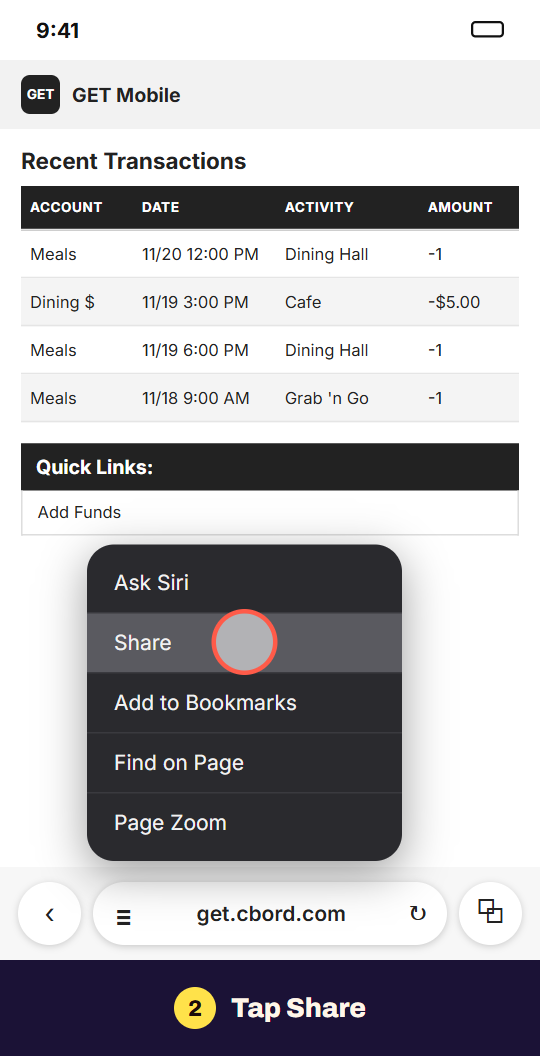
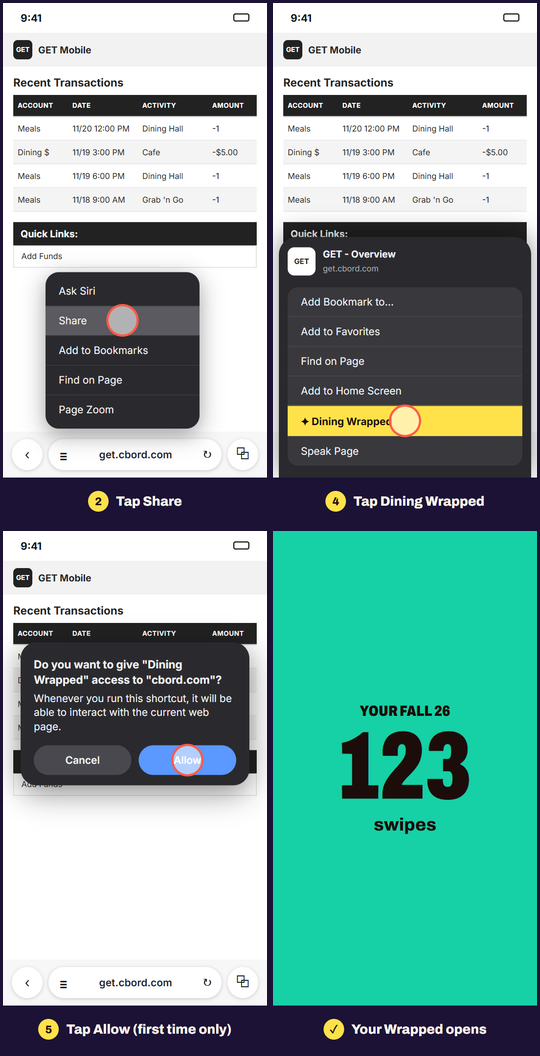
Fix review findings on the iPhone GIF
- Step 3 says the Shortcut is under View More on newer iPhones.
- The GIF sits in step 3, below the buttons, so phones reach Add to
  iPhone first.
- The reduced-motion still is a grid of all four key steps.

The step 3 test changed to include the View More hint.

diff --git a/templates/home.html b/templates/home.html
@@ -112,20 +112,20 @@
               <script>if (/iPhone/.test(navigator.userAgent)) document.documentElement.classList.add("is-iphone");</script>
               <div class="home-iphone">
                 <h2 class="heading2">On your iPhone</h2>
-                <figure class="home-iphone-demo">
-                  <picture>
-                    <source media="(prefers-reduced-motion: reduce)" srcset="{{ url_for('static', filename='styles/imgs/how-to-iphone-still.png') }}">
-                    <img src="{{ url_for('static', filename='styles/imgs/how-to-iphone.gif') }}" width="540" height="1056" loading="lazy"
-                         alt="How it works on iPhone: in Safari on GET, tap Share, then Dining Wrapped, then Allow, and your Wrapped opens.">
-                  </picture>
-                </figure>
                 <ol>
                   <li>Add the shortcut:
                     <a href="{{ shortcut_url }}" class="home-hero-button1 button home-iphone-button" target="_blank" rel="noopener">Add to iPhone</a>
                   </li>
                   <li>Allow it to run: Settings &rsaquo; Apps &rsaquo; Shortcuts &rsaquo; Advanced &rsaquo; <b>Allow Running Scripts</b>. (On older iPhones: Settings &rsaquo; Shortcuts &rsaquo; Advanced.)</li>
-                  <li>In Safari, log into GET, tap Share (on newer iPhones it's in the menu by the address), then <b>Dining Wrapped</b>. Tap <b>Allow</b> the first time.
+                  <li>In Safari, log into GET, tap Share (on newer iPhones it's in the menu by the address), then <b>Dining Wrapped</b> (under View More on newer iPhones). Tap <b>Allow</b> the first time.
                     <a href="https://get.cbord.com/umass/full/funds_home.php" class="home-hero-button1 button home-iphone-button" target="_blank" rel="noopener">Open GET</a>
+                    <figure class="home-iphone-demo">
+                      <picture>
+                        <source media="(prefers-reduced-motion: reduce)" srcset="{{ url_for('static', filename='styles/imgs/how-to-iphone-still.png') }}">
+                        <img src="{{ url_for('static', filename='styles/imgs/how-to-iphone.gif') }}" width="540" height="1056" loading="lazy"
+                             alt="How it works on iPhone: in Safari on GET, tap Share, then Dining Wrapped, then Allow, and your Wrapped opens.">
+                      </picture>
+                    </figure>
                   </li>
                 </ol>
               </div><!-- /iphone -->

diff --git a/static/styles/home.css b/static/styles/home.css
@@ -600,7 +600,7 @@
 .home-iphone h2 { margin-bottom: var(--dl-space-space-unit); font-size: 1.75rem; }
 .home-iphone ol { padding-left: 1.5rem; line-height: 1.5; }
 .home-iphone li + li { margin-top: var(--dl-space-space-unit); }
-.home-iphone-demo { width: min(240px, 70%); margin: 0 auto var(--dl-space-space-unit); }
+.home-iphone-demo { width: min(240px, 70%); margin: var(--dl-space-space-unit) auto 0; }
 .home-iphone-demo img { display: block; width: 100%; height: auto; border-radius: 16px; }
 .home-iphone .home-iphone-button { display: block; margin-top: var(--dl-space-space-halfunit); padding: 12px 16px; border-color: #fff6e9; background-color: #fff6e9; color: #862632; text-align: center; text-decoration: none; }
 .home-error {

diff --git a/tests/test_shortcut.py b/tests/test_shortcut.py
@@ -51,7 +51,8 @@ def test_iphone_steps_link_to_the_shortcut(client, monkeypatch):
     assert "Allow Running Scripts" in steps
     assert "older iPhones: Settings &rsaquo; Shortcuts &rsaquo; Advanced" in steps
     # Newer iOS puts Share in the menu by the address and the Shortcut under View More.
-    assert "tap Share (on newer iPhones it's in the menu by the address), then <b>Dining Wrapped</b>" in steps
+    assert ("tap Share (on newer iPhones it's in the menu by the address), then <b>Dining Wrapped</b> "
+            "(under View More on newer iPhones)") in steps
     assert "Tap <b>Allow</b> the first time." in steps
     assert "get.cbord.com/umass/full/funds_home.php" in steps
     assert "/iPhone/.test(navigator.userAgent)" in page
@@ -91,12 +92,20 @@ def test_iphone_steps_show_a_gif_of_the_shortcut(client, monkeypatch):
     assert 'media="(prefers-reduced-motion: reduce)"' in demo and "imgs/how-to-iphone-still.png" in demo
     assert 'loading="lazy"' in demo  # laptops never show this section, so they skip it
     assert 'alt="How it works on iPhone: in Safari on GET' in demo
+    # Below the install button, inside the step it shows, so phones reach Add to iPhone first.
+    assert steps.index("Add to iPhone") < steps.index('class="home-iphone-demo"')
+    assert steps.index("(under View More on newer iPhones)") < steps.index('class="home-iphone-demo"')
 
 
 def test_iphone_gif_is_small():
-    gif = Path(__file__).parent.parent / "static" / "styles" / "imgs" / "how-to-iphone.gif"
+    imgs = Path(__file__).parent.parent / "static" / "styles" / "imgs"
+    gif = imgs / "how-to-iphone.gif"
     assert gif.read_bytes()[:6] == b"GIF89a"
     assert gif.stat().st_size < 1_000_000
+    # The reduced-motion still is a grid of every step, the same size as the GIF.
+    still = (imgs / "how-to-iphone-still.png").read_bytes()
+    assert int.from_bytes(still[16:20], "big") == 540 and int.from_bytes(still[20:24], "big") == 1056
+    assert (imgs / "how-to-iphone-still.png").stat().st_size > 100_000  # four frames, not one
     css = (Path(__file__).parent.parent / "static" / "styles" / "home.css").read_text(encoding="utf8")
     rules = css.splitlines()
     assert any(rule.startswith(".home-iphone-demo { width: min(240px, 70%);") for rule in rules)
